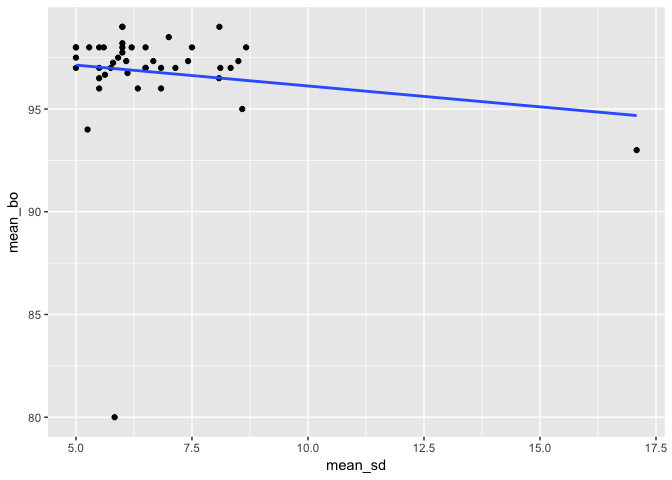
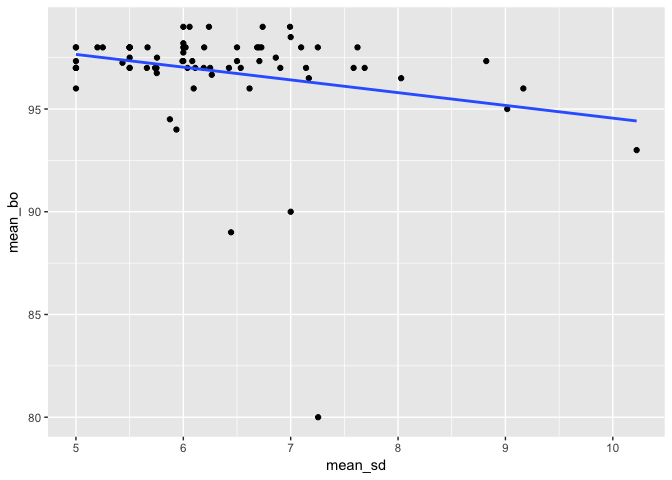
Fix markdown

diff --git a/refinery_analysis.md b/refinery_analysis.md
@@ -2,6 +2,10 @@ Refinery Analysis
 ================
 Niklas Lollo
 
+### Project home:
+
+-   <https://www.fairtechcollective.org/experiments/>
+
 ### Content websites:
 
 -   <http://www.fenceline.org/rodeo/data.php>
@@ -18,6 +22,24 @@ Niklas Lollo
 
 Setup
 -----
+
+### Create timespan of dataset
+
+``` r
+# Inputs here are date_begin and date_end
+timeframe <- function(date_begin = "2016-05-09 14:00", date_end = "2016-08-11 0:00"){
+  exp_begin = as.POSIXct(date_begin, tz="GMT", format="%Y-%m-%d %H")
+  exp_end = as.POSIXct(date_end, tz="GMT", format="%Y-%m-%d %H")
+  out = data_frame(day = seq(exp_begin, exp_end, by = 3600))
+  return(out)
+}
+full_time <- timeframe()
+# Manual
+date_begin = "2016-05-09 14:00"
+date_end = "2016-08-11 0:00"
+exp_begin = as.POSIXct(date_begin, tz="GMT", format="%Y-%m-%d %H")
+exp_end = as.POSIXct(date_end, tz="GMT", format="%Y-%m-%d %H")
+```
 
 ### Load Air Quality Data
 
@@ -41,8 +63,10 @@ hourly_4902 <- feed_4902 %>%
     sulfur_dioxide = mean(sulfurDioxide, na.rm=T),
     carbon_monoxide = mean(carbonMonoxide, na.rm=T),
     ozone = mean(ozone, na.rm=T)) %>%
+  ungroup() %>%
   # Arrange the columns by day
-  arrange(day)
+  arrange(day) %>%
+  full_join(full_time, by = "day")
 
 # Do the same for the other feed4902 dataframe
 feed_4902_methane[feed_4902_methane == 0] <- NA
@@ -56,7 +80,8 @@ hourly_4902_methane <- feed_4902_methane %>%
     benzene = mean(Benzene, na.rm=T),
     nitrous_oxide = mean(`Nitrous Oxide`, na.rm=T)) %>%
   # Arrange the columns by day
-  arrange(day)
+  arrange(day) %>%
+  full_join(full_time, by = "day")
 
 air_qual_4902 <- right_join(hourly_4902, hourly_4902_methane, by = "day") %>%
   mutate(id = "feed_4902")
@@ -77,7 +102,8 @@ air_qual_4901 <- feed_4901 %>%
     id = "feed_4901"
   ) %>%
   # Arrange the columns by day
-  arrange(day)
+  arrange(day) %>%
+  full_join(full_time, by = "day")
 
 # Remove intermediate dataframes
 rm(hourly_4902, hourly_4902_methane)
@@ -124,6 +150,7 @@ paco <- paco %>%
       id == "m9" | id == "m10" | id == "m11" |
       id == "m16") %>% 
   arrange(t)
+
 # Remove incorrect values
 paco$SPO2[paco$SPO2 == 0 | paco$SPO2 > 100 | paco$SPO2 < 80] <- NA
 # Make hourly dataframe
@@ -132,11 +159,20 @@ paco_hourly <- paco %>%
   group_by(id,
     # Creates new variables
     day = as.POSIXct(cut(t, breaks='hour'))) %>%
-    # Average
+  # Average
   summarise(blood_oxygen = mean(SPO2, na.rm=T)) %>%
-  filter(is.na(blood_oxygen) == F) %>%
+  filter(is.na(blood_oxygen) == F) %>% 
+  complete(expand(nesting(id), day = seq(exp_begin, exp_end, by = 3600)),  
+           #completing all levels of id:day
+              fill = list(blood_oxygen = NA)) %>%
+  # Select persons of interest 
+  filter(id == "m3" | id == "m5" | id == "m7" |
+      id == "m9" | id == "m10" | id == "m11" |
+      id == "m16") %>%
   # Arrange the columns by person
   arrange(id)
+
+rm(paco)
 ```
 
 ### Load Fitbit Data
@@ -164,6 +200,7 @@ fb_intraday_m11 <- read_csv("../refinery_data/fitbit_intradayactivities_m11.csv"
   mutate(id = "m11")
 fb_intraday_m16 <- read_csv("../refinery_data/fitbit_intradayactivities_m16.csv")%>%
   mutate(id = "m16")
+
 # Combine dataframes
 fb_intra <- bind_rows(fb_intraday_m3, fb_intraday_m5, .id = NULL) %>%
   bind_rows(fb_intraday_m7, .id = NULL) %>%
@@ -171,6 +208,11 @@ fb_intra <- bind_rows(fb_intraday_m3, fb_intraday_m5, .id = NULL) %>%
   bind_rows(fb_intraday_m11, .id = NULL) %>%
   bind_rows(fb_intraday_m16, .id = NULL) %>%
   mutate(id = as.factor(id))
+
+# Remove intermediate columns
+rm(fb_intraday_m3, fb_intraday_m5, fb_intraday_m7,
+   fb_intraday_m9, fb_intraday_m11, fb_intraday_m16)
+
 # Make hourly data
 fb_intraday <- fb_intra %>% 
   group_by(id,
@@ -184,21 +226,22 @@ fb_intraday <- fb_intra %>%
     heart_rate = mean(heart, na.rm=T),
     floors = sum(floors, na.rm=T),
     elevation = sum(elevation, na.rm=T)) %>%
+    complete(expand(nesting(id), day = seq(exp_begin, exp_end, by = 3600)),  
+         #completing all levels of id:day
+              fill = list(calories = NA,distance = NA,
+                          steps = NA, heart_rate = NA,
+                          floors = NA, elevation = NA)) %>%
+  # Select persons of interest 
+  filter(id == "m3" | id == "m5" | id == "m7" |
+      id == "m9" | id == "m10" | id == "m11" |
+      id == "m16") %>%
   # Arrange the columns by day
   arrange(id, day)
-rm(fb_intraday_m3, fb_intraday_m5, fb_intraday_m7,
-   fb_intraday_m9, fb_intraday_m11, fb_intraday_m16)
+
+rm(fb_intra, fb_daily)
 ```
 
 ### Merge the Data
-
-``` r
-# 5/13 0:00 - 7/14 0:00
-full_time <- data_frame(time = seq(1463090400, 1468447200, by = 3600)) %>%
-  mutate(
-    day = as.POSIXct(time, origin = "1970-01-01")
-  ) %>% select(-time)
-```
 
 ``` r
 df <- full_join(full_time, air_qual_4901, by = "day") %>%
@@ -210,32 +253,22 @@ df <- full_join(full_time, air_qual_4901, by = "day") %>%
   arrange(day)
 ```
 
-### Create average window
+### Create Moving Window Average
 
 ``` r
 # Set hours of interest
 hours = 5
-# Make window average of blood oxygen data
-df <- df %>%
+# Moving window average of sulfur dioxide
+df <- 
+  df %>% 
   group_by(id) %>% 
   arrange(day) %>%
-  mutate(
-    lag_1 = day-lag(day),
-    lag_2 = (day-lag(day,2))/3600,
-    lag_3 = (day-lag(day,3))/3600,
-    lag_4 = (day-lag(day,4))/3600,
-    sulfur_window = ifelse(is.na(lag(day)), 
-                           sulfur_dioxide,
-                    ifelse(lag_1>hours, 
-                           sulfur_dioxide,
-                    ifelse(lag_2>hours, 
-                           (sulfur_dioxide+lag(sulfur_dioxide))/2,
-                    ifelse(lag_3>hours, 
-                           (sulfur_dioxide+lag(sulfur_dioxide)+lag(sulfur_dioxide,2))/3,
-                    ifelse(lag_4>hours, 
-                        (sulfur_dioxide+lag(sulfur_dioxide)+
-                           lag(sulfur_dioxide,2)+lag(sulfur_dioxide,3))/4,
-                 NA)))))) %>% 
+  mutate(sulfur_window = zoo::rollapply(sulfur_dioxide, 
+                                        width = hours, #how many data to include
+                                        FUN = mean, #function is mean
+                                        na.rm = T, #avoids NA
+                                        partial = T, #skips unnecessary datapoints
+                                        align = "right")) %>%
   ungroup %>%
   arrange(id, day)
 ```
@@ -257,7 +290,7 @@ correlation_fun <- function(initial_df, var_1, var_2, var_time) {
                mean_var2 = mean(!!var_2, na.rm=T)) %>% 
     ungroup %>% 
     filter(!is.na(mean_var1) & !is.na(mean_var2)) %>%
-    select(mean_var1,mean_var2) %>% 
+    select(mean_var1, mean_var2) %>% 
     boot::corr() %>% 
     print()
 }
@@ -268,22 +301,22 @@ correlation_fun <- function(initial_df, var_1, var_2, var_time) {
 correlation_fun(df, quo(blood_oxygen),quo(sulfur_window),quo(day))
 ```
 
-    ## [1] -0.1374617
+    ## [1] -0.248212
 
 ``` r
 ## Heart Rate and Sulfur Dioxide
 hr_sd_corr <- correlation_fun(df, quo(heart_rate),quo(sulfur_window),quo(day))
 ```
 
-    ## [1] 0.0660717
+    ## [1] 0.06862326
 
 ``` r
 ## Heart Rate and Methane
-df$heart_rate[df$heart_rate < 30] <- NA
+df$heart_rate[df$heart_rate < 30 & df$heart_rate > 200] <- NA
 correlation_fun(df, quo(heart_rate),quo(methane),quo(day))
 ```
 
-    ## [1] -0.3968711
+    ## [1] -0.2960907
 
 ### Correlation plots
 
@@ -336,3 +369,88 @@ df %>%
 ```
 
 ![](refinery_analysis_files/figure-markdown_github-ascii_identifiers/plots-3.png)
+
+### Chi-Squared Tests
+
+``` r
+# Heart rate and methane
+q<- df %>% 
+  filter(!is.na(heart_rate) | !is.na(methane)) %>% 
+  group_by(day) %>%
+  summarize(mean_hr = mean(heart_rate, na.rm=T),
+            mean_m = mean(methane, na.rm=T)) %>%
+  ungroup %>% 
+  filter(!is.na(mean_hr) & !is.na(mean_m)) %>%
+  filter(mean_m > mean(mean_m))
+
+v<- mean(df$heart_rate, na.rm=T)
+t.test(q$mean_hr, mu = v)
+```
+
+    ## 
+    ##  One Sample t-test
+    ## 
+    ## data:  q$mean_hr
+    ## t = 2.2581, df = 715, p-value = 0.02424
+    ## alternative hypothesis: true mean is not equal to 40.71667
+    ## 95 percent confidence interval:
+    ##  40.87444 42.97597
+    ## sample estimates:
+    ## mean of x 
+    ##   41.9252
+
+``` r
+# Here we see that methane causes heart rate to go down about 4 points when
+# methane is above its mean value
+
+# Heart rate and sulfur dioxide
+f<- df %>% 
+  filter(!is.na(heart_rate) | !is.na(sulfur_window)) %>% 
+  group_by(day) %>%
+  summarize(mean_hr = mean(heart_rate, na.rm=T),
+            mean_sd = mean(sulfur_window, na.rm=T)) %>%
+  ungroup %>% 
+  filter(!is.na(mean_hr) & !is.na(mean_sd)) %>%
+  filter(mean_sd > mean(mean_sd))
+
+t.test(f$mean_hr, mu = v)
+```
+
+    ## 
+    ##  One Sample t-test
+    ## 
+    ## data:  f$mean_hr
+    ## t = 7.0358, df = 96, p-value = 2.93e-10
+    ## alternative hypothesis: true mean is not equal to 40.71667
+    ## 95 percent confidence interval:
+    ##  48.04067 53.79741
+    ## sample estimates:
+    ## mean of x 
+    ##  50.91904
+
+``` r
+# Blood oxygen and sulfur dioxide
+g<- df %>% 
+  filter(!is.na(blood_oxygen) | !is.na(sulfur_window)) %>% 
+  group_by(day) %>%
+  summarize(mean_bo = mean(blood_oxygen, na.rm=T),
+            mean_sd = mean(sulfur_window, na.rm=T)) %>%
+  ungroup %>% 
+  filter(!is.na(mean_bo) & !is.na(mean_sd)) %>%
+  filter(mean_sd > mean(mean_sd))
+
+m<- mean(df$blood_oxygen, na.rm=T)
+t.test(g$mean_bo, mu = m)
+```
+
+    ## 
+    ##  One Sample t-test
+    ## 
+    ## data:  g$mean_bo
+    ## t = -1.6274, df = 28, p-value = 0.1149
+    ## alternative hypothesis: true mean is not equal to 97.23543
+    ## 95 percent confidence interval:
+    ##  94.60069 97.53724
+    ## sample estimates:
+    ## mean of x 
+    ##  96.06897
